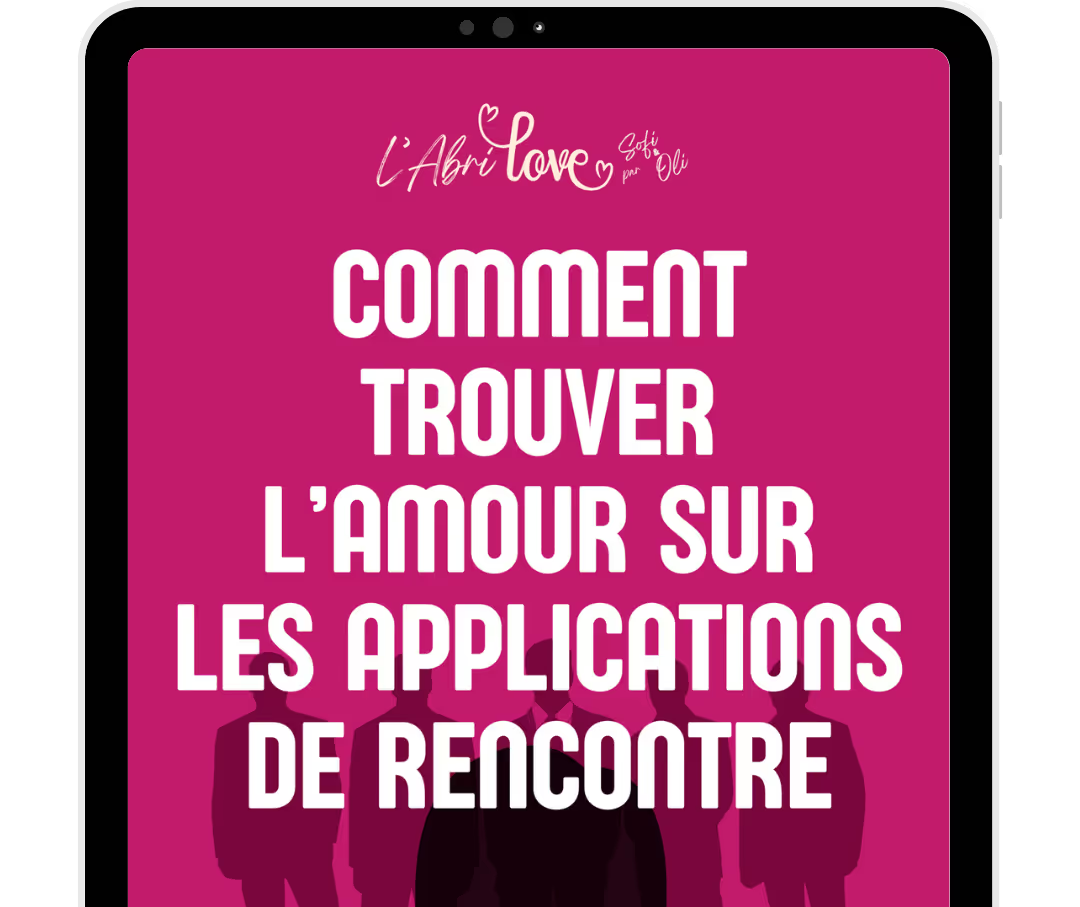
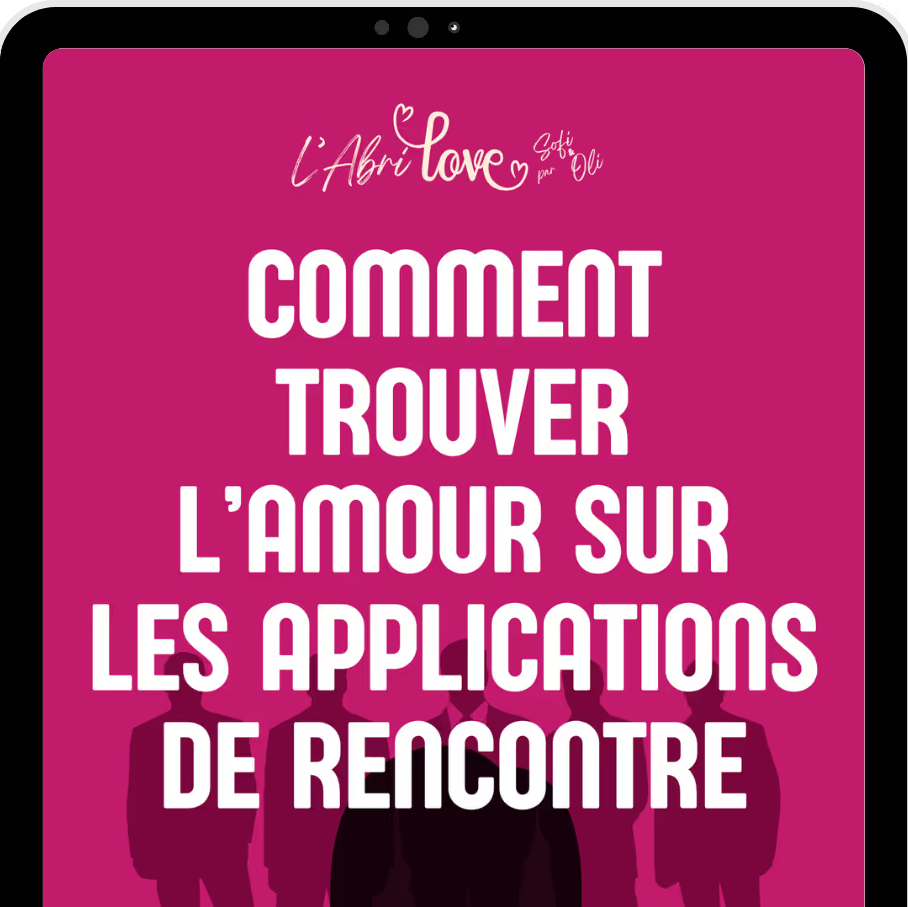
Fix cards payantes : crop marges blanches images + card transparente + gradient hero solid top

diff --git a/src/views/AmourPage.jsx b/src/views/AmourPage.jsx
@@ -246,7 +246,6 @@ export default function AmourPage() {
 
       {/* ── HERO ── */}
       <section style={{
-        minHeight: '70vh',
         paddingTop: 'clamp(130px,14vw,190px)',
         paddingLeft: 'clamp(32px,5vw,80px)',
         paddingRight: 'clamp(32px,5vw,80px)',
@@ -256,7 +255,7 @@ export default function AmourPage() {
         justifyContent: 'center',
         position: 'relative',
         overflow: 'hidden',
-        background: 'linear-gradient(180deg, #660A43 0%, #8a1258 50%, #660A43 100%)',
+        background: 'linear-gradient(180deg, #660A43 0%, #660A43 50%, #8a1258 75%, #660A43 100%)',
       }}>
         <div style={{ position: 'absolute', inset: 0, pointerEvents: 'none', zIndex: 0 }}>
           <div style={{ position: 'absolute', width: 500, height: 500, borderRadius: '50%', background: 'radial-gradient(circle, rgba(190,25,105,0.6) 0%, transparent 65%)', top: '40%', right: '-10%', filter: 'blur(50px)', animation: 'blob1 6s ease-in-out infinite' }} />
@@ -355,7 +354,7 @@ export default function AmourPage() {
           <div className="amour-grid" style={{ display: 'grid', gridTemplateColumns: 'repeat(3, 1fr)', gap: 28, alignItems: 'start' }}>
             {PAID_EBOOKS.map((ebook, i) => (
               <div key={ebook.id} data-fade className="amour-card" style={{ transitionDelay: `${i * 0.08}s` }}>
-                <a href={ebook.link} target="_blank" rel="noopener noreferrer" style={{ textDecoration: 'none', display: 'flex', flexDirection: 'column', borderRadius: 20, overflow: 'hidden', border: '1.5px solid rgba(255,241,231,0.25)', background: 'rgba(255,255,255,0.06)', backdropFilter: 'blur(8px)' }}>
+                <a href={ebook.link} target="_blank" rel="noopener noreferrer" style={{ textDecoration: 'none', display: 'flex', flexDirection: 'column', borderRadius: 20, overflow: 'hidden', border: '1.5px solid rgba(255,241,231,0.3)', background: 'transparent' }}>
                   <div style={{ position: 'relative' }}>
                     <img src={ebook.cover} alt={ebook.title} style={{ width: '100%', height: 'auto', display: 'block' }} />
                   </div>
